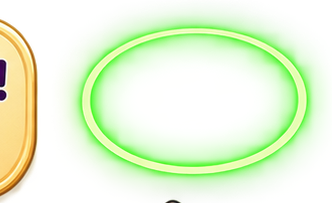
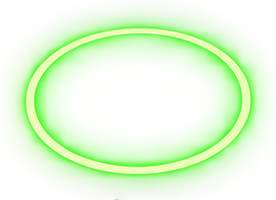
fix(garden-keeper): cut the glow ring free of the caption plate
The glow ring slice started at x=910 because the ring and the lantern
merge into one connected component and the lantern is the wider of the
two. The caption plate ends at x=948, so the rect dragged in a piece of
its right edge - the pale shape that appeared beside every active
flower. The ring's own content starts at x=966.

The slicer now counts disconnected blobs in each shipped piece and
flags anything above one, so a rect that catches a neighbour is caught
at slice time rather than on the board.

The ring asset is also no longer drawn as a ring. It is a complete,
hard-edged circle, so behind a meter whose whole job is to be visibly
incomplete it read as a second, contradictory ring. It is now drawn at
the meter's own diameter, forced circular and blurred, so it reads as
light coming off the arc.

diff --git a/src/games/attention/GardenKeeper/index.tsx b/src/games/attention/GardenKeeper/index.tsx
@@ -216,16 +216,24 @@ function PlantView({ plant, stage, active, until, windowMs, fx, reduced, onTap, 
         cursor: playing ? 'pointer' : 'default',
       }}
     >
-      {/* Light pool, from the UI sheet. Always mounted so it can fade rather than pop. */}
+      {/*
+        The sheet's glow ring, used as the meter's bloom rather than as a ring in its own
+        right. Drawn at the meter's diameter and blurred, it reads as light coming off the
+        arc; drawn crisp at any size it reads as a second, complete ring, which contradicts
+        a meter whose whole job is to be visibly incomplete.
+
+        Forced to a circle: the source is an ellipse, and our meter is round.
+      */}
       <img
         src={GLOW_RING_URL}
         alt=""
         draggable={false}
         style={{
           position: 'absolute', left: '50%', top: '62%', transform: 'translate(-50%,-50%)',
-          width: ringSize * 1.5, height: 'auto',
+          width: ringSize * 1.06, height: ringSize * 1.06,
           pointerEvents: 'none', userSelect: 'none',
-          opacity: active ? 1 : 0,
+          filter: 'blur(5px)',
+          opacity: active ? 0.6 : 0,
           ...(active && !reduced
             ? { animation: 'gk-halo 2200ms ease-in-out infinite' }
             : { transition: 'opacity 320ms ease' }),

diff --git a/scripts/slice_garden_assets.py b/scripts/slice_garden_assets.py
@@ -53,7 +53,10 @@ OUT = ROOT / "public" / "garden-assets"
 # them - see the note in the amendment.
 # Pieces the game actually paints. These ship in public/ and land in the PWA precache.
 UI_RECTS_USED: dict[str, tuple[int, int, int, int]] = {
-    "ui-glow-ring":     (910, 257, 332, 203),
+    # Measured tight. The merged ring+lantern component starts at x=910 because the
+    # lantern is wider, and taking the ring from there dragged in the right edge of the
+    # caption plate, which ends at x=948. The ring's own content starts at x=966.
+    "ui-glow-ring":     (966, 257, 276, 200),
     "ui-lantern":       (951, 460, 291, 431),
     "ui-badge-can":     (18, 911, 283, 287),
 }
@@ -167,6 +170,30 @@ def sprite_box(sheet: Image.Image, row: int, col: int, cuts: list[int]) -> tuple
     return (left + x0, top + y0, left + x1, top + y1)
 
 
+def stray_blobs(piece: Image.Image) -> int:
+    """
+    Count disconnected opaque blobs, ignoring specks.
+
+    A correctly cut piece is one blob. More than one means the rect caught a neighbour -
+    which is exactly how the glow ring shipped with a slice of the caption plate attached.
+    Needs scipy; if it is missing the check is skipped rather than blocking a slice.
+    """
+    try:
+        import numpy as np
+        from scipy import ndimage
+    except ImportError:
+        return 1
+
+    mask = np.array(piece.getchannel("A")) > ALPHA_FLOOR
+    labelled, count = ndimage.label(mask, structure=np.ones((3, 3)))
+    if count <= 1:
+        return count
+    sizes = ndimage.sum(mask, labelled, range(1, count + 1))
+    # Anything under 0.5% of the piece is a stray pixel, not a fragment.
+    floor = 0.005 * mask.size
+    return int((sizes > floor).sum())
+
+
 def slice_ui(measure: bool) -> int:
     """Cut the UI sheet into its pieces, trimming each to its own alpha bounds."""
     if not UI_SHEET.exists():
@@ -184,7 +211,9 @@ def slice_ui(measure: bool) -> int:
             box = piece.getchannel("A").point(lambda v: 255 if v > ALPHA_FLOOR else 0).getbbox()
             if box:
                 piece = piece.crop(box)
-            print(f"  [{label}] {name}: {piece.width}x{piece.height}")
+            blobs = stray_blobs(piece)
+            warn = "  <-- CHECK: rect caught a neighbour" if dest is OUT and blobs > 1 else ""
+            print(f"  [{label}] {name}: {piece.width}x{piece.height} blobs={blobs}{warn}")
             if not measure:
                 piece.save(dest / f"{name}.png")
                 if dest is OUT:
